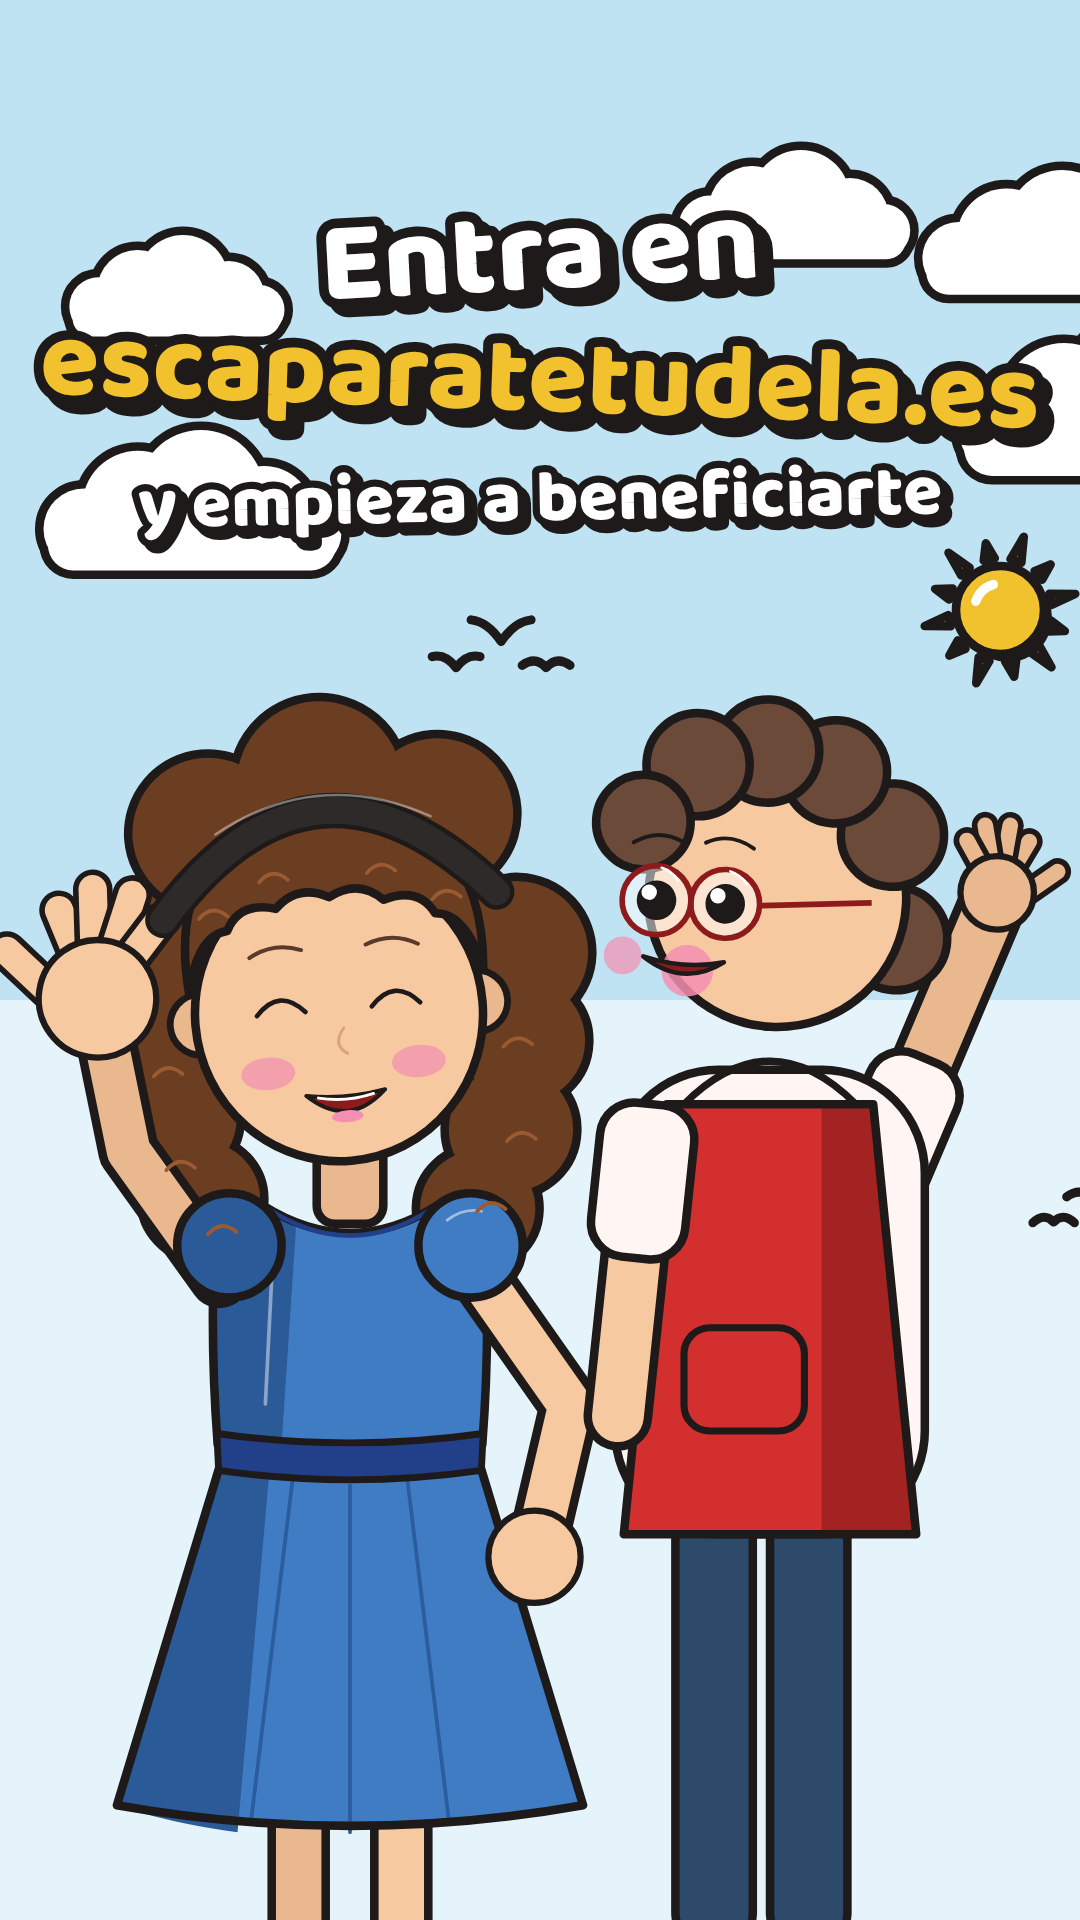
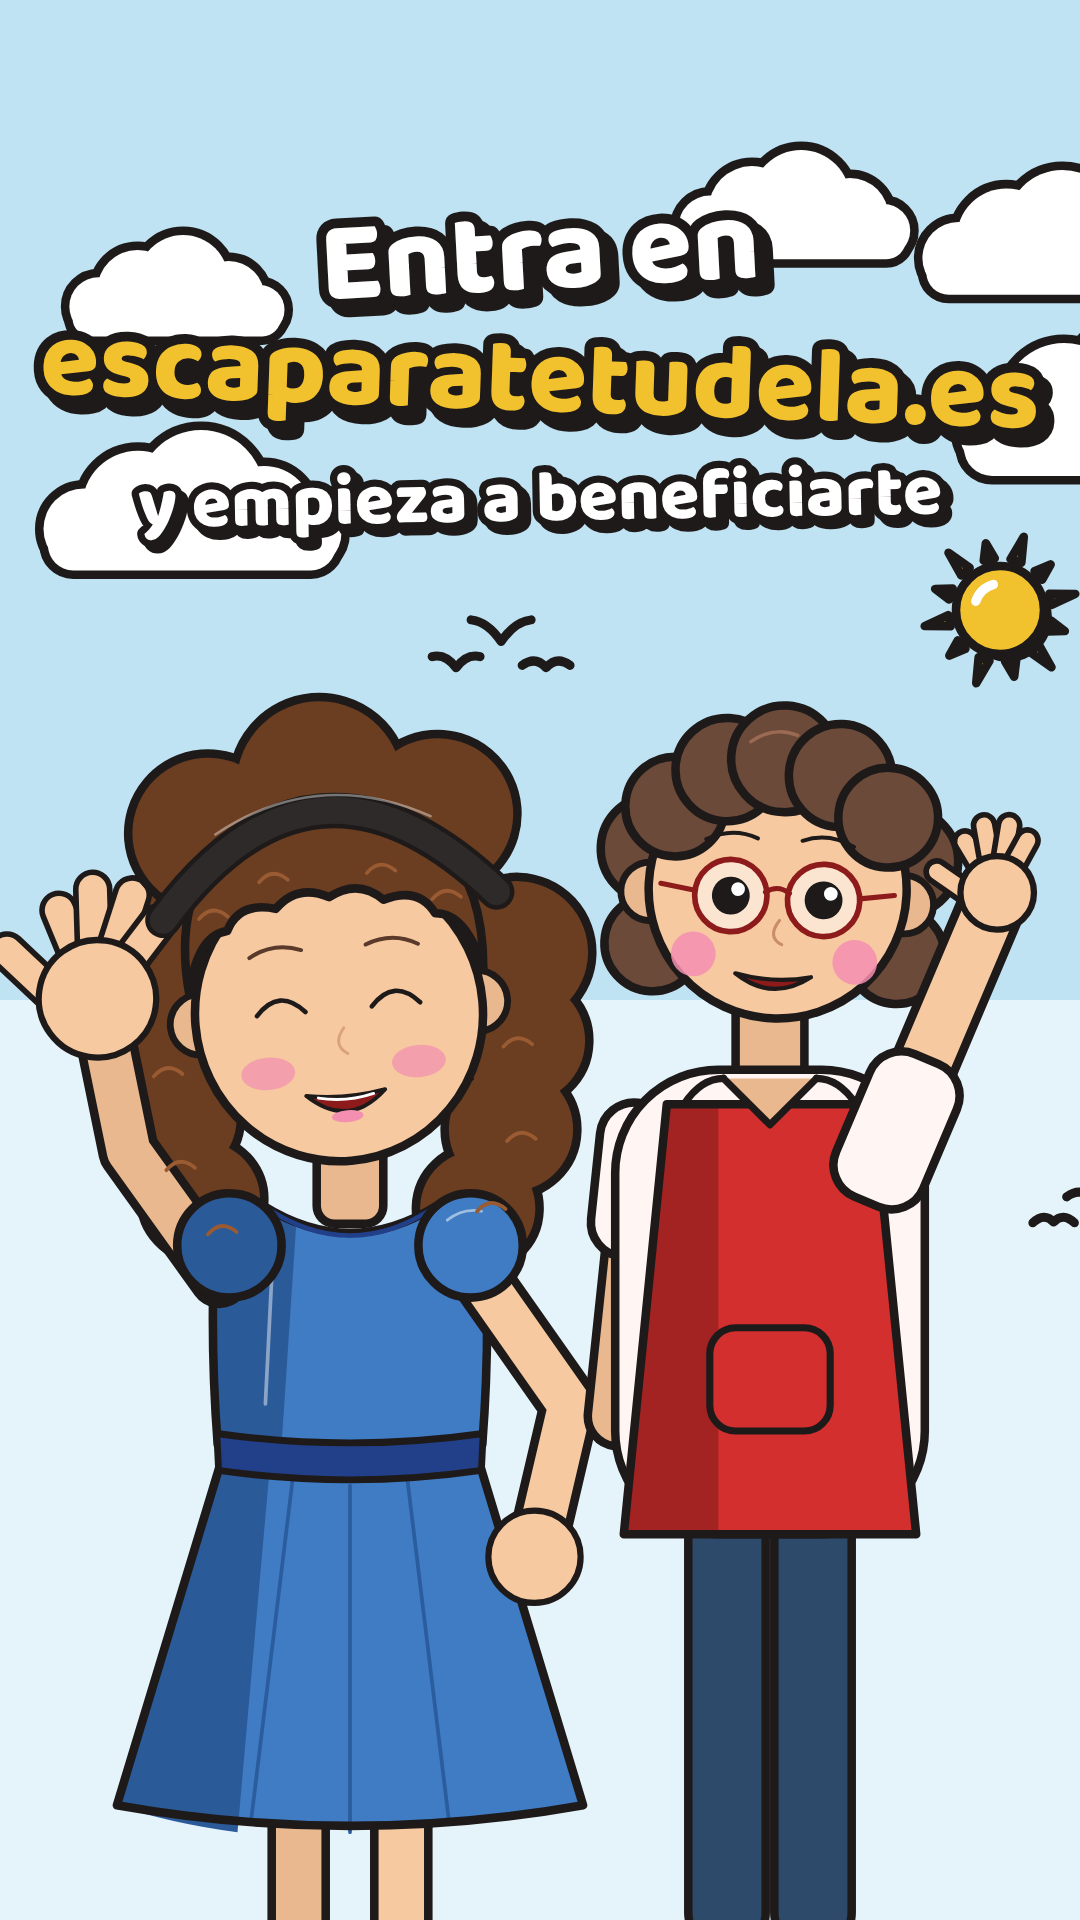
Vídeo 15: Mari Carmen de frente y con cuello (src/maricarmen.js); CLAUDE.md: todos los personajes de frente
Claude-Session: https://claude.ai/code/session_01HvcyDjx67Hpo4xKXdEFJN8

Changed region(s): [[0.55, 0.3438, 1.0, 1.0]]

diff --git a/src/maricarmen.js b/src/maricarmen.js
@@ -1,0 +1,102 @@
+/* MARI CARMEN DE FRENTE — personaje fijo de la serie desde el vídeo 15 (sustituye a la de perfil 3/4 del vídeo 06).
+   Mismos rasgos y colores que en el vídeo 06: rizos castaños (#6B4A3A), gafas redondas rojas (#8E1B1B), blusa crema,
+   delantal rojo con bolsillo, pantalón azul marino y zapatos marrones. Ahora mirando a cámara y con cuello.
+   Misma interfaz que maricarmen() / placeMC() del vídeo 06 (suelo y=208, centro x=190):
+   o: expr ('happy'|'smile'|'proud'|'expect'|'focus'), look [dx,dy], blink, talk (0..1 boca), armF / armB (giro del
+   brazo en grados), handF(w) / handB(w), bob, head (giro de cabeza), front0(w), front(w), pocketItem(w), noPocket, noLegs. */
+'use strict';
+
+const MCF_ = { hy: 79, neck: '#E9B88F' };
+
+function mcFace(o, w) {
+  const e = o.expr || 'happy', lx = o.look ? o.look[0] : 0, ly = o.look ? o.look[1] : 0;
+  const L = (d, sw = 1.6, col = INK) => `<path d="${d}" stroke="${col}" stroke-width="${w(sw)}" stroke-linecap="round" stroke-linejoin="round" fill="none"/>`;
+  const EY = 77, EX = [184.6, 195.4], MY = 86.4;
+  let s = `<g transform="translate(0 ${MCF_.hy - 76})">`;
+  // mejillas
+  const ch = e === 'proud' ? 0.85 : 0.6;
+  s += `<circle cx="180.6" cy="84" r="2.6" fill="${C.pink}" opacity="${ch}"/><circle cx="199.4" cy="84" r="2.6" fill="${C.pink}" opacity="${ch}"/>`;
+  // cristales (brillo) y ojos
+  EX.forEach(x => { s += `<circle cx="${x}" cy="${EY}" r="4.2" fill="#FFFFFF" fill-opacity="0.5"/>`; });
+  if (o.blink) s += L(`M${EX[0] - 2.4} ${EY + 0.4} H${EX[0] + 2.4} M${EX[1] - 2.4} ${EY + 0.4} H${EX[1] + 2.4}`, 1.4);
+  else {
+    const r = e === 'proud' ? 2.2 : (e === 'expect' ? 1.8 : 1.6);
+    EX.forEach(x => {
+      s += `<circle cx="${f(x + lx)}" cy="${f(EY + ly)}" r="${r}" fill="${INK}"/>`;
+      if (e === 'proud') s += `<circle cx="${f(x + lx + 0.8)}" cy="${f(EY + ly - 0.8)}" r="0.8" fill="#FFFFFF"/>`;
+    });
+  }
+  // montura roja: dos aros, puente y patillas hasta las orejas
+  EX.forEach(x => { s += `<circle cx="${x}" cy="${EY}" r="4.2" fill="none" stroke="${MC.frame}" stroke-width="${w(2)}"/>`; });
+  s += `<path d="M188.6 76.4 Q190 75.4 191.4 76.4" fill="none" stroke="${MC.frame}" stroke-width="${w(1.8)}" stroke-linecap="round"/>`;
+  s += `<path d="M180.4 76.6 L176.4 76 M199.6 76.6 L203.6 76" stroke="${MC.frame}" stroke-width="${w(1.8)}" stroke-linecap="round"/>`;
+  // cejas
+  if (e === 'expect') s += L('M181.2 69.4 Q184.4 67.2 187.6 69 M192.4 69 Q195.6 67.2 198.8 69.4', 1.5);
+  else if (e === 'focus') s += L('M181.4 71 L187.2 71.8 M192.8 71.8 L198.6 71', 1.5);
+  else s += L('M181.4 70.6 Q184.4 69 187.4 70.2 M192.6 70.2 Q195.6 69 198.6 70.6', 1.4);
+  // nariz
+  s += L('M190.4 79.6 Q189 81.6 190.8 82.4', 1.1, '#C98E66');
+  // boca (centrada)
+  const m = clamp(o.talk || 0);
+  if (m > 0.05) {
+    const op = 1.6 + 4.2 * m;
+    s += `<path d="M185.6 ${MY - 0.4} Q190 ${f(MY + 0.6)} 194.4 ${MY - 0.4} Q190 ${f(MY + op)} 185.6 ${MY - 0.4}Z" fill="${C.dred}" stroke="${INK}" stroke-width="${w(1.5)}" stroke-linejoin="round"/>`;
+    if (m > 0.45) s += `<ellipse cx="190" cy="${f(MY + op * 0.6)}" rx="1.9" ry="${f(op * 0.17)}" fill="${C.pink}"/>`;
+  } else if (e === 'expect') s += L(`M187.4 ${MY + 0.4} Q190 ${MY + 1.8} 192.6 ${MY + 0.4}`, 1.8);
+  else if (e === 'focus') s += L(`M186.6 ${MY} Q190 ${MY + 0.8} 193.4 ${MY}`, 1.8) +
+    `<path d="M190.6 ${MY + 0.4} Q191 ${MY + 3.8} 193 ${MY + 3.2} Q194.4 ${MY + 2.4} 193.4 ${MY}Z" fill="${C.pink}" stroke="${INK}" stroke-width="${w(1.2)}" stroke-linejoin="round"/>`;
+  else if (e === 'proud') s += `<path d="M184.8 ${MY - 1} Q190 ${MY + 8} 195.2 ${MY - 1}Z" fill="${C.dred}" stroke="${INK}" stroke-width="${w(1.6)}" stroke-linejoin="round"/><path d="M186 ${MY - 0.5} H194 L193.2 ${MY + 0.9} H186.8Z" fill="#FFFFFF"/>`;
+  else if (e === 'smile') s += `<path d="M185.4 ${MY - 0.6} Q190 ${MY + 6} 194.6 ${MY - 0.6}Z" fill="${C.dred}" stroke="${INK}" stroke-width="${w(1.5)}" stroke-linejoin="round"/>`;
+  else s += L(`M185.8 ${MY - 0.4} Q190 ${MY + 3.6} 194.2 ${MY - 0.4}`, 1.9);
+  return s + '</g>';
+}
+
+function maricarmen(o) {
+  const k = o.k || 1, w = v => f(v * k);
+  const st = (v = 3) => `stroke="${INK}" stroke-width="${w(v)}"`, lj = 'stroke-linejoin="round"';
+  let g = '';
+  // piernas y zapatos (de frente, simétricos)
+  if (!o.noLegs) g += `<rect x="180.5" y="150" width="9" height="52" rx="4" fill="${C.navy}" ${st()}/>
+    <rect x="190.5" y="150" width="9" height="52" rx="4" fill="${C.navy}" ${st()}/>
+    <path d="M177.6 208 V204.6 Q177.6 201.4 181 201.4 H187.6 Q190 201.4 190 204 V208Z" fill="${MC.shoe}" ${st()} ${lj}/>
+    <path d="M190 208 V204 Q190 201.4 192.4 201.4 H199 Q202.4 201.4 202.4 204.6 V208Z" fill="${MC.shoe}" ${st()} ${lj}/>`;
+  const armB = o.armB || 0, armF = o.armF || 0;
+  let b = '';
+  // pelo de atrás (rizos a los lados de la cabeza, con el mismo vaivén que la cabeza)
+  const hy = MCF_.hy, hr = o.head || 0;
+  let back = '';
+  [[175.4, hy - 4, 6.2], [204.6, hy - 4, 6.2], [175.8, hy + 7, 5.6], [204.2, hy + 7, 5.6]].forEach(([x, y, r]) => { back += `<circle cx="${x}" cy="${y}" r="${r}" fill="${MC.hair}" ${st()}/>`; });
+  b += `<g transform="rotate(${f(hr)} 190 96)">${back}</g>`;
+  // brazo de atrás
+  b += `<g transform="rotate(${f(armB)} 176 110)"><rect x="172" y="108" width="7" height="36" rx="3.5" fill="${C.skinS}" ${st()}/><rect x="170" y="104" width="11" height="18" rx="4" fill="${C.cream}" ${st()}/>` +
+    (o.handB ? `<g transform="rotate(${f(-armB)} 175.5 143)">${o.handB(w)}</g>` : '') + `</g>`;
+  // cuello
+  b += `<rect x="186" y="${hy + 10}" width="8" height="${f(104 - hy - 10)}" rx="2.4" fill="${MCF_.neck}" ${st()}/>`;
+  // blusa y delantal
+  b += `<rect x="172" y="100" width="36" height="54" rx="12" fill="${C.cream}" ${st()}/>
+    <path d="M178 104 L202 104 L207 154 L173 154Z" fill="${C.red}"/>
+    <path d="M178 104 L184 104 L184 154 L173 154Z" fill="${C.redS}"/>
+    <path d="M178 104 L202 104 L207 154 L173 154Z" fill="none" ${st()} ${lj}/>`;
+  if (!o.noPocket) b += `<rect x="183" y="130" width="14" height="12" rx="3" fill="${C.red}" ${st(2.5)}/>`;
+  if (o.pocketItem) b += o.pocketItem(w);
+  // escote en «V» de la blusa sobre el cuello
+  b += `<path d="M184.6 101 L190 106.4 L195.4 101" fill="${MCF_.neck}" stroke="${INK}" stroke-width="${w(2.5)}" stroke-linejoin="round" stroke-linecap="round"/>`;
+  b += `<path d="M180 104 Q182 101 184.6 101 M195.4 101 Q198 101 200 104" stroke="${INK}" stroke-width="${w(2.5)}" fill="none" stroke-linecap="round"/>`;
+  if (o.front0) b += o.front0(w);
+  // brazo de delante
+  b += `<g transform="rotate(${f(armF)} 204 110)"><rect x="201" y="108" width="7" height="36" rx="3.5" fill="${C.skin}" ${st()}/><rect x="199" y="104" width="11" height="18" rx="4" fill="${C.cream}" ${st()}/>` +
+    (o.handF ? `<g transform="rotate(${f(-armF)} 204.5 143)">${o.handF(w)}</g>` : '') + `</g>`;
+  // cabeza de frente: orejas, cara, rizos de arriba (flequillo rizado), cara
+  let hd = `<circle cx="175.2" cy="${hy + 1}" r="3.4" fill="${C.skinS}" ${st(2.4)}/><circle cx="204.8" cy="${hy + 1}" r="3.4" fill="${C.skinS}" ${st(2.4)}/>`;
+  hd += `<circle cx="190" cy="${hy}" r="15" fill="${C.skin}" ${st()}/>`;
+  [[177.6, hy - 9, 5.8], [183.4, hy - 13.6, 6], [190, hy - 15.2, 6.2], [196.6, hy - 13.6, 6], [202.4, hy - 9, 5.8]].forEach(([x, y, r]) => {
+    hd += `<circle cx="${x}" cy="${f(y)}" r="${r}" fill="${MC.hair}" ${st()}/>`;
+  });
+  // brillo de los rizos
+  hd += `<path d="M186 ${f(hy - 17)} Q188.6 ${f(hy - 19)} 191.4 ${f(hy - 18)}" stroke="#9A6A52" stroke-width="${w(1.2)}" fill="none" stroke-linecap="round"/>`;
+  hd += mcFace(o, w);
+  b += `<g transform="rotate(${f(hr)} 190 96)">${hd}</g>`;
+  if (o.front) b += o.front(w);
+  g += `<g transform="translate(0 ${f(o.bob || 0)})">${b}</g>`;
+  return g;
+}

diff --git a/src/v15.js b/src/v15.js
@@ -9,43 +9,7 @@ const st15 = (v = 1) => `stroke="${INK}" stroke-width="${f(SW * v)}" stroke-line
 const CARTEL_BG = '#C71F1E';               // color dominante de cartel.png
 const CARTEL_AR = 1414 / 2000;             // proporción del cartel (ancho / alto)
 
-/* ===================== MARI CARMEN: cara con boca que habla ===================== */
-// Copia exacta de mcFace del vídeo 06; solo se añade o.talk (0..1): boca abierta mientras habla.
-mcFace = function (o, w) {
-  const e = o.expr || 'happy', lx = o.look ? o.look[0] : 0, ly = o.look ? o.look[1] : 0;
-  const L = (d, sw = 1.6, col = INK) => `<path d="${d}" stroke="${col}" stroke-width="${w(sw)}" stroke-linecap="round" stroke-linejoin="round" fill="none"/>`;
-  let s = `<circle cx="196" cy="81" r="4" fill="#FFFFFF" fill-opacity="0.5"/><circle cx="204" cy="81" r="4" fill="#FFFFFF" fill-opacity="0.5"/>`;
-  // ojos
-  if (o.blink) s += L('M193.4 81.4 H198.6 M201.4 81.4 H206.6', 1.4);
-  else if (e === 'proud') s += `<circle cx="${f(196 + lx)}" cy="${f(81 + ly)}" r="2.3" fill="${INK}"/><circle cx="${f(204 + lx)}" cy="${f(81 + ly)}" r="2.3" fill="${INK}"/>
-      <circle cx="${f(196.9 + lx)}" cy="${f(80.1 + ly)}" r="0.9" fill="#FFFFFF"/><circle cx="${f(204.9 + lx)}" cy="${f(80.1 + ly)}" r="0.9" fill="#FFFFFF"/>`;
-  else if (e === 'expect') s += `<circle cx="${f(196 + lx)}" cy="${f(81 + ly)}" r="1.8" fill="${INK}"/><circle cx="${f(204 + lx)}" cy="${f(81 + ly)}" r="1.8" fill="${INK}"/>`;
-  else s += `<circle cx="${f(196 + lx)}" cy="${f(81 + ly)}" r="1.5" fill="${INK}"/><circle cx="${f(204 + lx)}" cy="${f(81 + ly)}" r="1.5" fill="${INK}"/>`;
-  // montura roja (referencia)
-  s += `<circle cx="196" cy="81" r="4" fill="none" stroke="${MC.frame}" stroke-width="${w(2)}"/><circle cx="204" cy="81" r="4" fill="none" stroke="${MC.frame}" stroke-width="${w(2)}"/>`;
-  s += `<line x1="192" y1="81" x2="179" y2="80" stroke="${MC.frame}" stroke-width="${w(2)}"/>`;
-  if (e === 'proud') s += L('M193.6 78.6 Q194.4 77.5 195.6 77.2 M201.6 78.6 Q202.4 77.5 203.6 77.2', 0.9, '#FFFFFF');
-  // cejas
-  if (e === 'expect') s += L('M192.6 73.2 Q195.6 70.6 198.6 72.6 M201.4 72.6 Q204.4 70.6 207.4 73.2', 1.5);
-  else if (e === 'focus') s += L('M193 75.2 L198.4 76.2 M201.6 76.2 L207 75.2', 1.5);
-  else if (e === 'proud' || e === 'smile') s += L('M193 74.4 Q195.8 72.6 198.6 74 M201.4 74 Q204.2 72.6 207 74.4', 1.4);
-  // mejillas
-  s += `<circle cx="200" cy="89" r="3" fill="${C.pink}" opacity="${e === 'proud' ? 0.85 : 0.6}"/>`;
-  if (e === 'proud') s += `<circle cx="207.6" cy="87.6" r="2.2" fill="${C.pink}" opacity="0.7"/>`;
-  // boca (o.talk > 0: abierta mientras habla; si no, la de cada expresión)
-  const m = clamp(o.talk || 0);
-  if (m > 0.05) {
-    const op = 1.6 + 4.4 * m;
-    s += `<path d="M195.8 87.8 Q200.4 ${f(88.2 + op)} 205.2 87.6 Q200.4 88.9 195.8 87.8Z" fill="${C.dred}" stroke="${INK}" stroke-width="${w(1.6)}" stroke-linejoin="round"/>`;
-    if (m > 0.45) s += `<ellipse cx="200.6" cy="${f(88.4 + op * 0.6)}" rx="1.9" ry="${f(op * 0.17)}" fill="${C.pink}"/>`;
-  } else if (e === 'expect') s += L('M197.4 90.2 Q200.6 91.8 203.8 90', 2);
-  else if (e === 'focus') s += L('M196.6 89.8 Q200.4 90.8 204.2 89.6', 2) +
-    `<path d="M201.4 90.3 Q201.8 94 204 93.4 Q205.6 92.6 204.4 89.8Z" fill="${C.pink}" stroke="${INK}" stroke-width="${w(1.3)}" stroke-linejoin="round"/>`;
-  else if (e === 'proud') s += `<path d="M195 87.4 Q200.4 97 206 87.2 Z" fill="${C.dred}" stroke="${INK}" stroke-width="${w(1.7)}" stroke-linejoin="round"/><path d="M196.2 88 H204.8 L204 89.4 H197Z" fill="#FFFFFF"/>`;
-  else if (e === 'smile') s += `<path d="M195.8 87.8 Q200.4 94.6 205.2 87.6 Z" fill="${C.dred}" stroke="${INK}" stroke-width="${w(1.6)}" stroke-linejoin="round"/>`;
-  else s += L('M196 89 Q200 93 205 89', 2); // referencia
-  return s;
-};
+/* Mari Carmen (de frente, con boca que habla): ver maricarmen.js */
 const talk15 = (t, ranges, rate = 10) => talkA(t, ranges || [], rate);
 
 /* ===================== MARÍA: brazos y colocación ===================== */

diff --git a/src/scenes.js b/src/scenes.js
@@ -399,8 +399,8 @@ S[6] = (t, T, sc) => {
   w += placeMaria(350, pyM, sM, Object.assign({}, baseM, { expr: u < 0.5 ? 'sparkle' : 'joy', talk: talk15(t, trM), head: -3 + 2 * Math.sin(T * 2),
     armB: mArm(false, [161 - 2 * wave, 90], 'open', { hs: 1.45, hrot: -18 * wave }), armF: M_REST_F() }));
   const pyC = HT + 151 * sC;
-  w += placeMC(770, pyC, sC, Object.assign(mcBase(T, sC), { flip: true, expr: 'proud', talk: talk15(t, trC, 11), head: -3,
-    armB: 166 + 9 * Math.sin(u * 9 + 1), handB: w2 => hand11('open', [175.5, 143], w2, { fill: C.skinS, hs: 0.95 }), armF: -6 }));
+  w += placeMC(770, pyC, sC, Object.assign(mcBase(T, sC), { expr: 'proud', talk: talk15(t, trC, 11), head: 3,
+    armF: -166 - 9 * Math.sin(u * 9 + 1), handF: openHandF, armB: 6 }));
   s = cam(comicZoom(u), 540, 900, w);
   s += bigT('Entra en', 540, 256, 116, pop(u, c.C_t1, 0.5), -3);
   s += bigT('escaparatetudela.es', 540, 380, 124, pop(u, c.C_t2, 0.5), 2, { fill: C.yel, maxW: 1000 });

diff --git a/src/index.html b/src/index.html
@@ -19,6 +19,7 @@
 <script src="v12.js"></script>
 <script src="v13.js"></script>
 <script src="v14.js"></script>
+<script src="maricarmen.js"></script>
 <script src="maria.js"></script>
 <script src="v15.js"></script>
 <script src="scenes.js"></script>

diff --git a/CLAUDE.md b/CLAUDE.md
@@ -17,3 +17,9 @@ En la parte final de cada vídeo, siempre dos cosas, en este orden (en voz, en s
 Motivo: el mismo vídeo se usa en TikTok y en Instagram; para una de las dos plataformas el usuario recorta él mismo
 la parte del comentario. No hace falta preparar tramos aparte: el vídeo se hace normal, con el audio completo que da
 el usuario, y la tarjeta final con el logo sigue al final, como siempre.
+
+## Personajes
+- **Todos los personajes se dibujan DE FRENTE**, mirando a cámara (nada de perfil ni 3/4), con cuello visible.
+- María: `src/maria.js` (diadema negra y rizos; referencia en la rama `video-11-marta-cuatro-motivos`).
+- Mari Carmen: `src/maricarmen.js` (de frente y con cuello desde el vídeo 15; mismos rizos castaños, gafas rojas,
+  delantal rojo, pantalón azul marino). Sustituye a la versión de perfil del vídeo 06; misma interfaz `placeMC()`.
